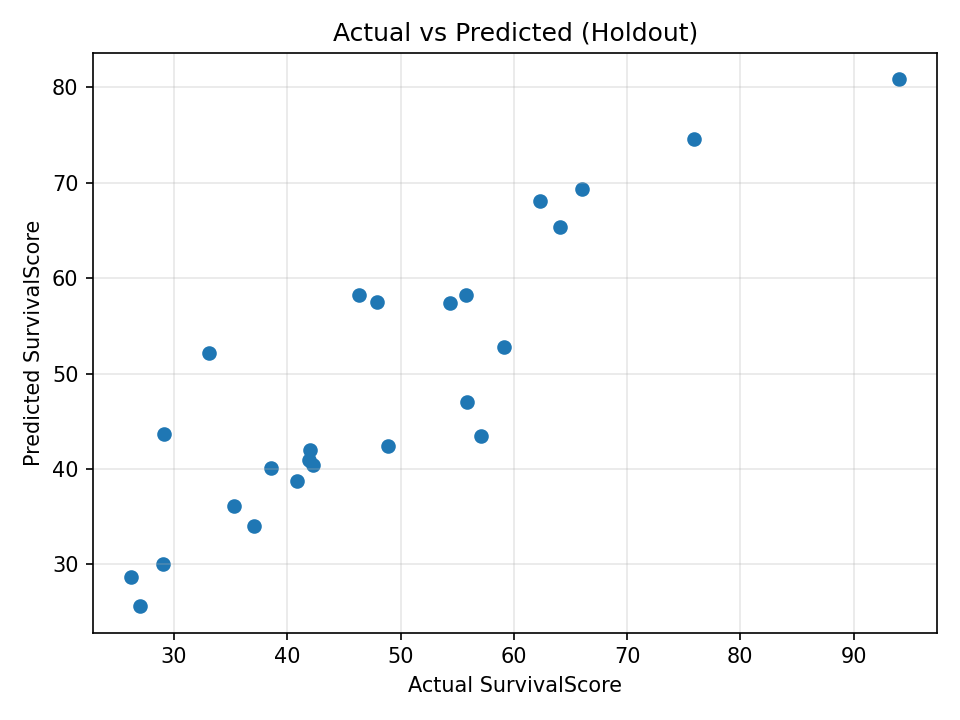
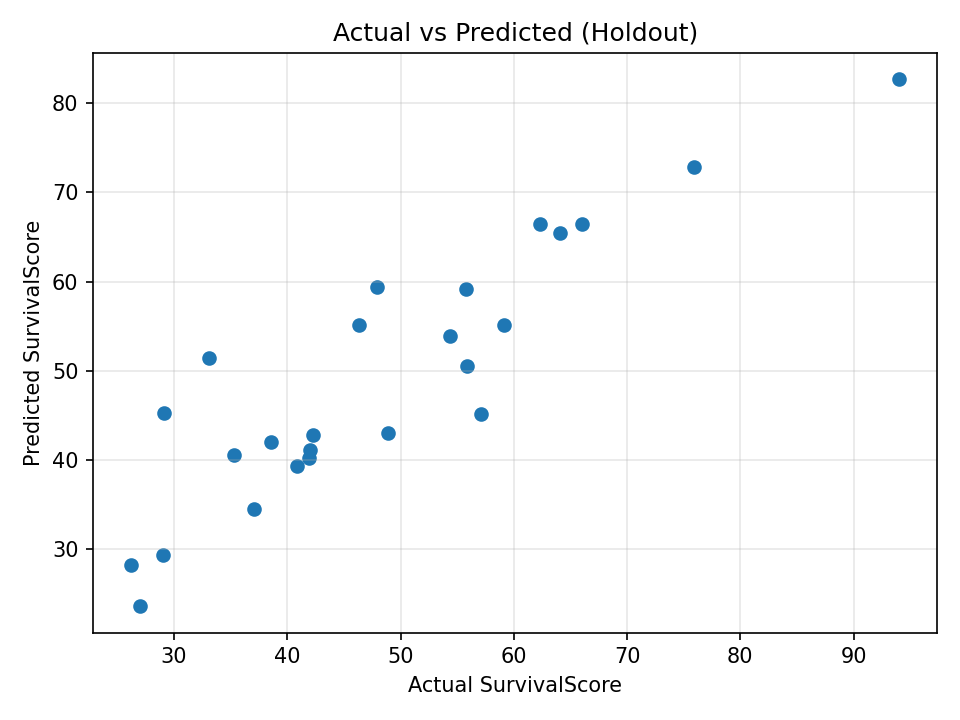
we were outside

diff --git a/project_one.py b/project_one.py
@@ -1,28 +1,29 @@
 """
-Sole Survivor – Linear Regression (Simple or Multiple)
-------------------------------------------------------
+Sole Survivor - Ridge Regression (Simple or Multiple)
+-----------------------------------------------------
 - Toggle FEATURE_MODE = "simple" or "multiple"
-- Prints CV and holdout metrics
-- Saves plots:
-    1) Actual vs Predicted (always)
-    2) Best-fit line (only for simple regression)
+- Uses Ridge (linear) with StandardScaler
+- Prints CV, repeated CV (robust), holdout, coefficients, residuals
+- Saves plots (incl. best-fit line for simple regression)
 - Predicts next season, prints top 3, saves CSV
 """
 
 import numpy as np
 import pandas as pd
 import matplotlib.pyplot as plt
-from sklearn.model_selection import KFold, cross_val_score, train_test_split
+
+from sklearn.model_selection import KFold, RepeatedKFold, cross_val_score, train_test_split
 from sklearn.pipeline import Pipeline
 from sklearn.preprocessing import StandardScaler
-from sklearn.linear_model import LinearRegression
+from sklearn.linear_model import Ridge
 from sklearn.metrics import r2_score, mean_absolute_error, mean_squared_error
 
-# ------------- CONFIG -------------
-FEATURE_MODE = "multiple"        # "simple" or "multiple"
-SINGLE_FEATURE = "Leadership"    # used only when FEATURE_MODE == "simple"
+# -------- CONFIG --------
+FEATURE_MODE   = "multiple"     # "simple" or "multiple"
+SINGLE_FEATURE = "Leadership"   # used only when FEATURE_MODE == "simple"
+RIDGE_ALPHA    = 1.0            # try 0.1, 0.5, 1.0 etc.
 
-# ------------- DATA LOADING -------------
+# -------- DATA LOADING --------
 def load_data(past_file="sole_survivor_past.csv", next_file="sole_survivor_next.csv"):
     past = pd.read_csv(past_file)
     next_season = pd.read_csv(next_file)
@@ -32,7 +33,7 @@ def load_data(past_file="sole_survivor_past.csv", next_file="sole_survivor_next.
     assert "SurvivalScore" in past.columns, "Training data must include SurvivalScore."
     return past, next_season
 
-# ------------- FEATURE SELECTION & ARRAYS -------------
+# -------- FEATURES --------
 def prepare_data(past: pd.DataFrame, next_season: pd.DataFrame):
     all_features = [c for c in past.columns if c not in ["Name", "SurvivalScore"]]
 
@@ -46,31 +47,28 @@ def prepare_data(past: pd.DataFrame, next_season: pd.DataFrame):
     X = past[feature_cols].values
     y = past["SurvivalScore"].values
     X_next = next_season[feature_cols].values
-    names_next = (
-        next_season["Name"].values
-        if "Name" in next_season.columns
-        else np.arange(len(next_season))
-    )
+    names_next = next_season["Name"].values if "Name" in next_season.columns else np.arange(len(next_season))
     return feature_cols, X, y, X_next, names_next
 
-# ------------- MODEL -------------
-def build_model():
-    return Pipeline([
-        ("scaler", StandardScaler()),
-        ("lr", LinearRegression())
-    ])
+# -------- MODEL (Ridge) --------
+def build_model(alpha: float = RIDGE_ALPHA) -> Pipeline:
+    # Step name kept as "lr" for minimal changes elsewhere
+    return Pipeline([("scaler", StandardScaler()), ("lr", Ridge(alpha=alpha, random_state=42))])
 
-def evaluate_model(model, X, y, seed=42):
-    # Cross-validation R^2
+def evaluate_model(model, X, y, feature_cols, seed=42):
+    # Standard CV
     cv = KFold(n_splits=5, shuffle=True, random_state=seed)
     cv_r2 = cross_val_score(model, X, y, cv=cv, scoring="r2")
     print("\nCross-validated R² scores:", np.round(cv_r2, 3))
     print("Mean CV R²:", round(cv_r2.mean(), 3), "±", round(cv_r2.std(), 3))
 
-    # Holdout split for error metrics and plotting
-    X_train, X_test, y_train, y_test = train_test_split(
-        X, y, test_size=0.25, random_state=seed
-    )
+    # Robust repeated CV
+    rkf = RepeatedKFold(n_splits=5, n_repeats=5, random_state=seed)
+    cv_r2_rep = cross_val_score(model, X, y, cv=rkf, scoring="r2")
+    print("Repeated CV R² mean:", round(cv_r2_rep.mean(), 3), "±", round(cv_r2_rep.std(), 3))
+
+    # Holdout
+    X_train, X_test, y_train, y_test = train_test_split(X, y, test_size=0.25, random_state=seed)
     model.fit(X_train, y_train)
     y_pred = model.predict(X_test)
 
@@ -79,11 +77,23 @@ def evaluate_model(model, X, y, seed=42):
     print("  MAE  :", round(mean_absolute_error(y_test, y_pred), 3))
     print("  RMSE :", round(np.sqrt(mean_squared_error(y_test, y_pred)), 3))
 
+    # Coefficients (standardized scale)
+    print("\nFeature Coefficients (Ridge):")
+    coefs = model.named_steps["lr"].coef_
+    for name, coef in zip(feature_cols, coefs):
+        print(f"  {name:15s}: {coef:+.3f}")
+
+    # Residuals
+    resid = y_test - y_pred
+    print("\nResidual Diagnostics:")
+    print("  Mean Residual:", round(resid.mean(), 3))
+    print("  Std of Residuals:", round(resid.std(), 3))
+
     return X_train, y_train, y_test, y_pred, model
 
-# ------------- PLOTS -------------
+# -------- PLOTS --------
 def save_plots(past, feature_cols, y_test, y_pred, X_train=None, y_train=None, model=None):
-    # (1) Actual vs Predicted (always)
+    # (1) Actual vs Predicted
     plt.figure()
     plt.scatter(y_test, y_pred)
     plt.xlabel("Actual SurvivalScore")
@@ -94,27 +104,26 @@ def save_plots(past, feature_cols, y_test, y_pred, X_train=None, y_train=None, m
     plt.savefig("plot_actual_vs_pred.png", dpi=150)
     plt.close()
 
-    # (2) Best-fit line for SIMPLE regression (feature vs response)
+    # (2) Best-fit line (only for simple regression)
     if len(feature_cols) == 1 and X_train is not None and model is not None:
         x_col = X_train[:, 0].reshape(-1, 1)
-        # Sort for a clean line
         order = np.argsort(x_col[:, 0])
         x_sorted = x_col[order]
         y_line = model.predict(x_sorted)
 
         plt.figure()
         plt.scatter(x_col, y_train, color="blue", alpha=0.7, label="Training Data")
-        plt.plot(x_sorted, y_line, color="red", linewidth=2, label="Best Fit Line")
+        plt.plot(x_sorted, y_line, color="red", linewidth=2, label="Best Fit Line (Ridge)")
         plt.xlabel(feature_cols[0])
         plt.ylabel("SurvivalScore")
-        plt.title(f"Simple Linear Regression: {feature_cols[0]} vs SurvivalScore")
+        plt.title(f"Simple Ridge: {feature_cols[0]} vs SurvivalScore")
         plt.grid(True, alpha=0.3)
         plt.legend()
         plt.tight_layout()
         plt.savefig("plot_simple_fit.png", dpi=150)
         plt.close()
 
-    # Feature–Target Correlation (works for simple or multiple)
+    # (3) Correlation bar chart
     corr = (
         past[feature_cols + ["SurvivalScore"]]
         .corr()["SurvivalScore"]
@@ -134,9 +143,9 @@ def save_plots(past, feature_cols, y_test, y_pred, X_train=None, y_train=None, m
     else:
         print("Saved plots: plot_actual_vs_pred.png, plot_feature_correlations.png")
 
-# ------------- PREDICT & OUTPUT -------------
+# -------- PREDICT & OUTPUT --------
 def predict_next(model, X, y, X_next, names_next):
-    model.fit(X, y)  # fit on ALL training data
+    model.fit(X, y)
     preds = model.predict(X_next)
     order = np.argsort(preds)[::-1]
 
@@ -149,15 +158,191 @@ def predict_next(model, X, y, X_next, names_next):
     out.to_csv("sole_survivor_predictions.csv", index=False)
     print("\nSaved predictions to: sole_survivor_predictions.csv")
 
-# ------------- MAIN -------------
+# -------- MAIN --------
 def main():
     past, next_season = load_data()
     feature_cols, X, y, X_next, names_next = prepare_data(past, next_season)
-    model = build_model()
+    model = build_model(alpha=RIDGE_ALPHA)
 
-    X_train, y_train, y_test, y_pred, fitted_holdout_model = evaluate_model(model, X, y)
+    X_train, y_train, y_test, y_pred, fitted_holdout_model = evaluate_model(model, X, y, feature_cols)
     save_plots(past, feature_cols, y_test, y_pred, X_train=X_train, y_train=y_train, model=fitted_holdout_model)
     predict_next(model, X, y, X_next, names_next)
 
 if __name__ == "__main__":
     main()
+
+
+
+# End of file
+
+# Below is additional context for linear Reg, not part of the code file.
+
+# import numpy as np
+# import pandas as pd
+# import matplotlib.pyplot as plt
+
+# from sklearn.model_selection import KFold, RepeatedKFold, cross_val_score, train_test_split
+# from sklearn.pipeline import Pipeline
+# from sklearn.preprocessing import StandardScaler
+# from sklearn.linear_model import LinearRegression
+# from sklearn.metrics import r2_score, mean_absolute_error, mean_squared_error
+
+# # ------------- CONFIG -------------
+# FEATURE_MODE = "multiple"        # "simple" or "multiple"
+# SINGLE_FEATURE = "Leadership"    # used only when FEATURE_MODE == "simple"
+
+# # ------------- DATA LOADING -------------
+# def load_data(past_file="sole_survivor_past.csv", next_file="sole_survivor_next.csv"):
+#     past = pd.read_csv(past_file)
+#     next_season = pd.read_csv(next_file)
+#     print("Past shape:", past.shape)
+#     print("Next shape:", next_season.shape)
+#     print("\nColumns:", list(past.columns))
+#     assert "SurvivalScore" in past.columns, "Training data must include SurvivalScore."
+#     return past, next_season
+
+# # ------------- FEATURE SELECTION & ARRAYS -------------
+# def prepare_data(past: pd.DataFrame, next_season: pd.DataFrame):
+#     all_features = [c for c in past.columns if c not in ["Name", "SurvivalScore"]]
+
+#     if FEATURE_MODE == "simple":
+#         feature_cols = [SINGLE_FEATURE]
+#         print(f"Using single feature: {SINGLE_FEATURE}")
+#     else:
+#         feature_cols = all_features
+#         print("Using multiple features:", feature_cols)
+
+#     X = past[feature_cols].values
+#     y = past["SurvivalScore"].values
+#     X_next = next_season[feature_cols].values
+#     names_next = (
+#         next_season["Name"].values
+#         if "Name" in next_season.columns
+#         else np.arange(len(next_season))
+#     )
+#     return feature_cols, X, y, X_next, names_next
+
+# # ------------- MODEL -------------
+# def build_model():
+#     return Pipeline([
+#         ("scaler", StandardScaler()),
+#         ("lr", LinearRegression())
+#     ])
+
+# def evaluate_model(model, X, y, feature_cols, seed=42):
+#     # Cross-validation (standard)
+#     cv = KFold(n_splits=5, shuffle=True, random_state=seed)
+#     cv_r2 = cross_val_score(model, X, y, cv=cv, scoring="r2")
+#     print("\nCross-validated R² scores:", np.round(cv_r2, 3))
+#     print("Mean CV R²:", round(cv_r2.mean(), 3), "±", round(cv_r2.std(), 3))
+
+#     # ---- Robust Repeated CV ----
+#     rkf = RepeatedKFold(n_splits=5, n_repeats=5, random_state=seed)
+#     cv_r2_rep = cross_val_score(model, X, y, cv=rkf, scoring="r2")
+#     print("Repeated CV R² mean:", round(cv_r2_rep.mean(), 3), "±", round(cv_r2_rep.std(), 3))
+
+#     # Holdout split
+#     X_train, X_test, y_train, y_test = train_test_split(
+#         X, y, test_size=0.25, random_state=seed
+#     )
+#     model.fit(X_train, y_train)
+#     y_pred = model.predict(X_test)
+
+#     print("\nHoldout metrics:")
+#     print("  R²   :", round(r2_score(y_test, y_pred), 3))
+#     print("  MAE  :", round(mean_absolute_error(y_test, y_pred), 3))
+#     print("  RMSE :", round(np.sqrt(mean_squared_error(y_test, y_pred)), 3))
+
+#     # ---- Coefficients ----
+#     print("\nFeature Coefficients (impact on SurvivalScore):")
+#     coefs = model.named_steps["lr"].coef_
+#     for name, coef in zip(feature_cols, coefs):
+#         print(f"  {name:15s}: {coef:+.3f}")
+
+#     # ---- Residual Diagnostics ----
+#     resid = y_test - y_pred
+#     print("\nResidual Diagnostics:")
+#     print("  Mean Residual:", round(resid.mean(), 3))
+#     print("  Std of Residuals:", round(resid.std(), 3))
+
+#     return X_train, y_train, y_test, y_pred, model
+
+# # ------------- PLOTS -------------
+# def save_plots(past, feature_cols, y_test, y_pred, X_train=None, y_train=None, model=None):
+#     # (1) Actual vs Predicted
+#     plt.figure()
+#     plt.scatter(y_test, y_pred)
+#     plt.xlabel("Actual SurvivalScore")
+#     plt.ylabel("Predicted SurvivalScore")
+#     plt.title("Actual vs Predicted (Holdout)")
+#     plt.grid(True, alpha=0.3)
+#     plt.tight_layout()
+#     plt.savefig("plot_actual_vs_pred.png", dpi=150)
+#     plt.close()
+
+#     # (2) Best-fit line (simple regression only)
+#     if len(feature_cols) == 1 and X_train is not None and model is not None:
+#         x_col = X_train[:, 0].reshape(-1, 1)
+#         order = np.argsort(x_col[:, 0])
+#         x_sorted = x_col[order]
+#         y_line = model.predict(x_sorted)
+
+#         plt.figure()
+#         plt.scatter(x_col, y_train, color="blue", alpha=0.7, label="Training Data")
+#         plt.plot(x_sorted, y_line, color="red", linewidth=2, label="Best Fit Line")
+#         plt.xlabel(feature_cols[0])
+#         plt.ylabel("SurvivalScore")
+#         plt.title(f"Simple Linear Regression: {feature_cols[0]} vs SurvivalScore")
+#         plt.grid(True, alpha=0.3)
+#         plt.legend()
+#         plt.tight_layout()
+#         plt.savefig("plot_simple_fit.png", dpi=150)
+#         plt.close()
+
+#     # (3) Correlation plot
+#     corr = (
+#         past[feature_cols + ["SurvivalScore"]]
+#         .corr()["SurvivalScore"]
+#         .drop("SurvivalScore")
+#         .sort_values(ascending=False)
+#     )
+#     plt.figure()
+#     corr.plot(kind="bar")
+#     plt.ylabel("Correlation with SurvivalScore")
+#     plt.title("Feature–Target Correlations")
+#     plt.tight_layout()
+#     plt.savefig("plot_feature_correlations.png", dpi=150)
+#     plt.close()
+
+#     if len(feature_cols) == 1:
+#         print("Saved plots: plot_actual_vs_pred.png, plot_simple_fit.png, plot_feature_correlations.png")
+#     else:
+#         print("Saved plots: plot_actual_vs_pred.png, plot_feature_correlations.png")
+
+# # ------------- PREDICT & OUTPUT -------------
+# def predict_next(model, X, y, X_next, names_next):
+#     model.fit(X, y)
+#     preds = model.predict(X_next)
+#     order = np.argsort(preds)[::-1]
+
+#     print("\nTop 3 predicted contestants:")
+#     for i, idx in enumerate(order[:3], start=1):
+#         print(f"  {i}) {names_next[idx]}  ->  Predicted SurvivalScore: {preds[idx]:.2f}")
+
+#     out = pd.DataFrame({"Name": names_next, "PredictedSurvivalScore": preds})
+#     out.sort_values("PredictedSurvivalScore", ascending=False, inplace=True)
+#     out.to_csv("sole_survivor_predictions.csv", index=False)
+#     print("\nSaved predictions to: sole_survivor_predictions.csv")
+
+# # ------------- MAIN -------------
+# def main():
+#     past, next_season = load_data()
+#     feature_cols, X, y, X_next, names_next = prepare_data(past, next_season)
+#     model = build_model()
+
+#     X_train, y_train, y_test, y_pred, fitted_holdout_model = evaluate_model(model, X, y, feature_cols)
+#     save_plots(past, feature_cols, y_test, y_pred, X_train=X_train, y_train=y_train, model=fitted_holdout_model)
+#     predict_next(model, X, y, X_next, names_next)
+
+# if __name__ == "__main__":
+#     main()
